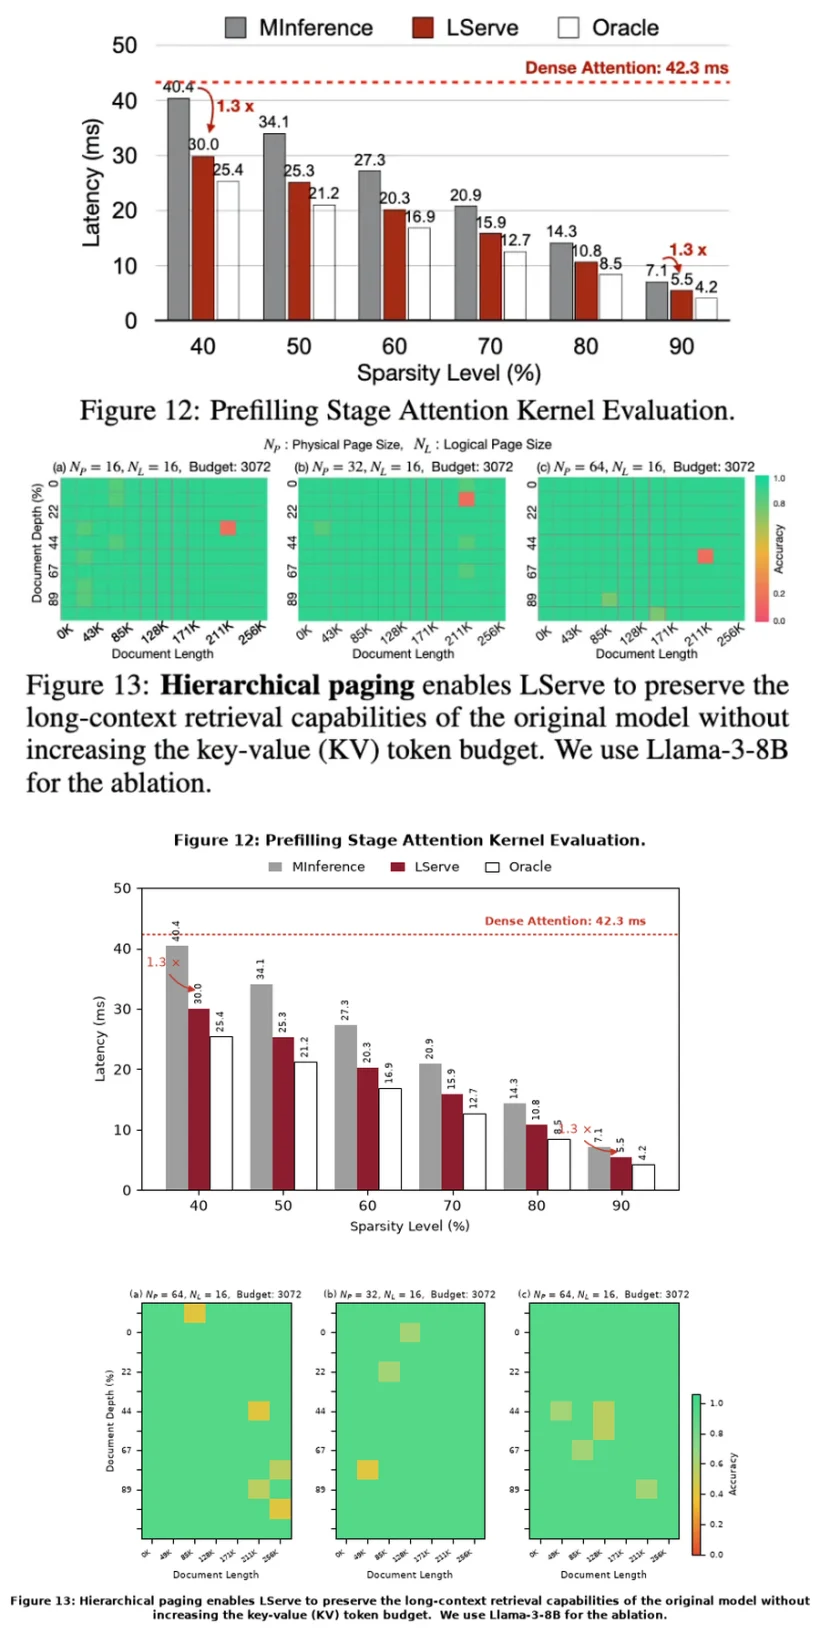
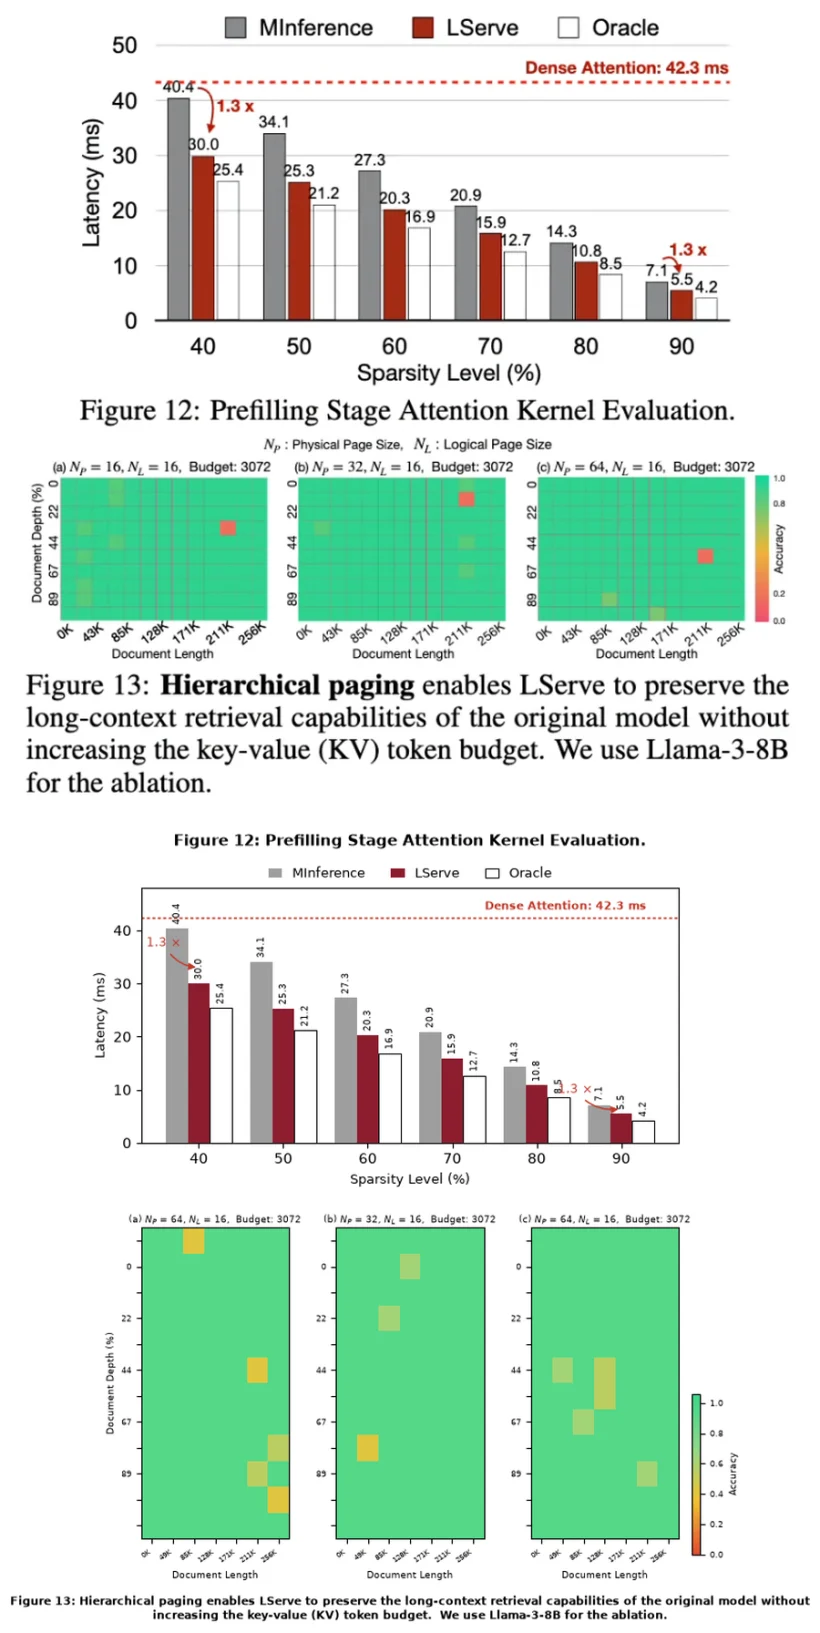
improve(replicas): 第十二轮 —— 07 上下比例调整
柱状图:热图高度比 1.0:0.78 → 0.82:1.0，热图放大；
墨迹占比 0.262 → 0.305（原图 0.308），行分布也对齐

diff --git a/tools/figlab/replicas.py b/tools/figlab/replicas.py
@@ -381,7 +381,7 @@ REPLICAS = [
 
 def fig07():
     fig = plt.figure(figsize=(6.6, 7.9))
-    gs = fig.add_gridspec(2, 3, height_ratios=[1.0, 0.78], hspace=0.42, wspace=0.30)
+    gs = fig.add_gridspec(2, 3, height_ratios=[0.82, 1.0], hspace=0.30, wspace=0.32)
 
     # ---- 上：分组柱（3 系列 × 6 稀疏度）
     ax = fig.add_subplot(gs[0, :])
@@ -406,8 +406,8 @@ def fig07():
     ax.set_xticks(x, [str(l) for l in levels])
     ax.set_xlabel("Sparsity Level (%)", fontsize=9.5)
     ax.set_ylabel("Latency (ms)", fontsize=9.5)
-    ax.set_ylim(0, 50)
-    ax.set_yticks([0, 10, 20, 30, 40, 50])
+    ax.set_ylim(0, 48)
+    ax.set_yticks([0, 10, 20, 30, 40])
     ax.axhline(42.3, ls=(0, (2, 1.5)), color="#C0392B", lw=1.1, zorder=2)
     ax.text(5.3, 43.4, "Dense Attention: 42.3 ms", color="#C0392B", fontsize=8.2,
             ha="right", va="bottom", fontweight="bold")
